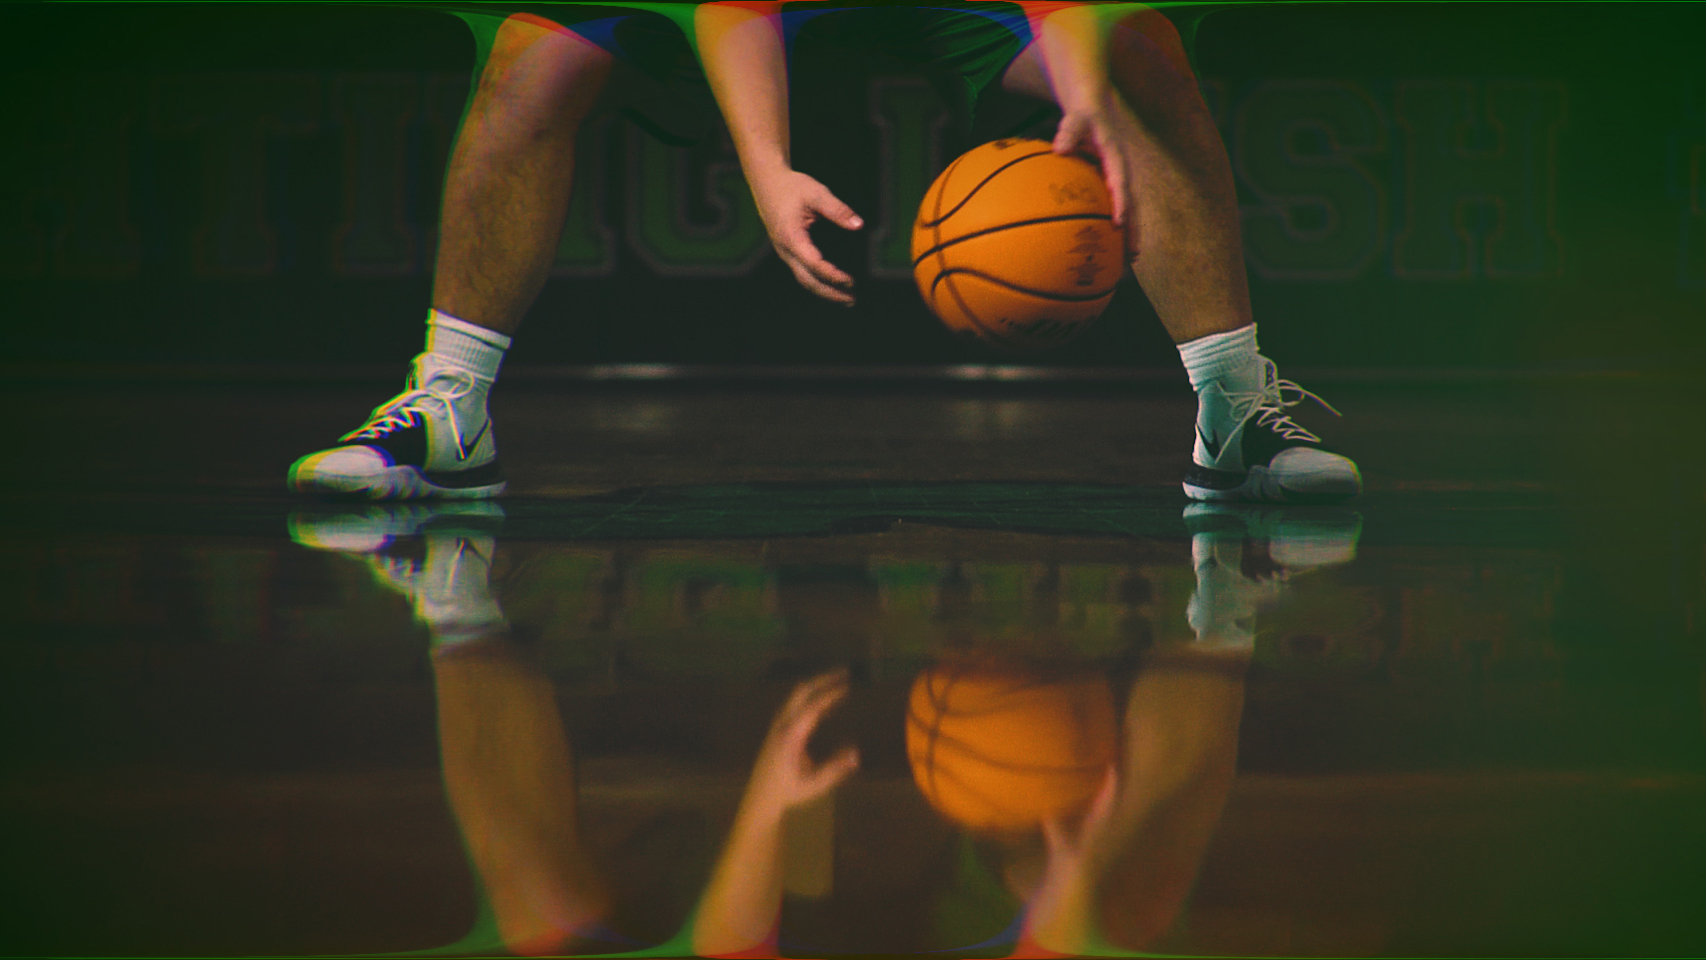
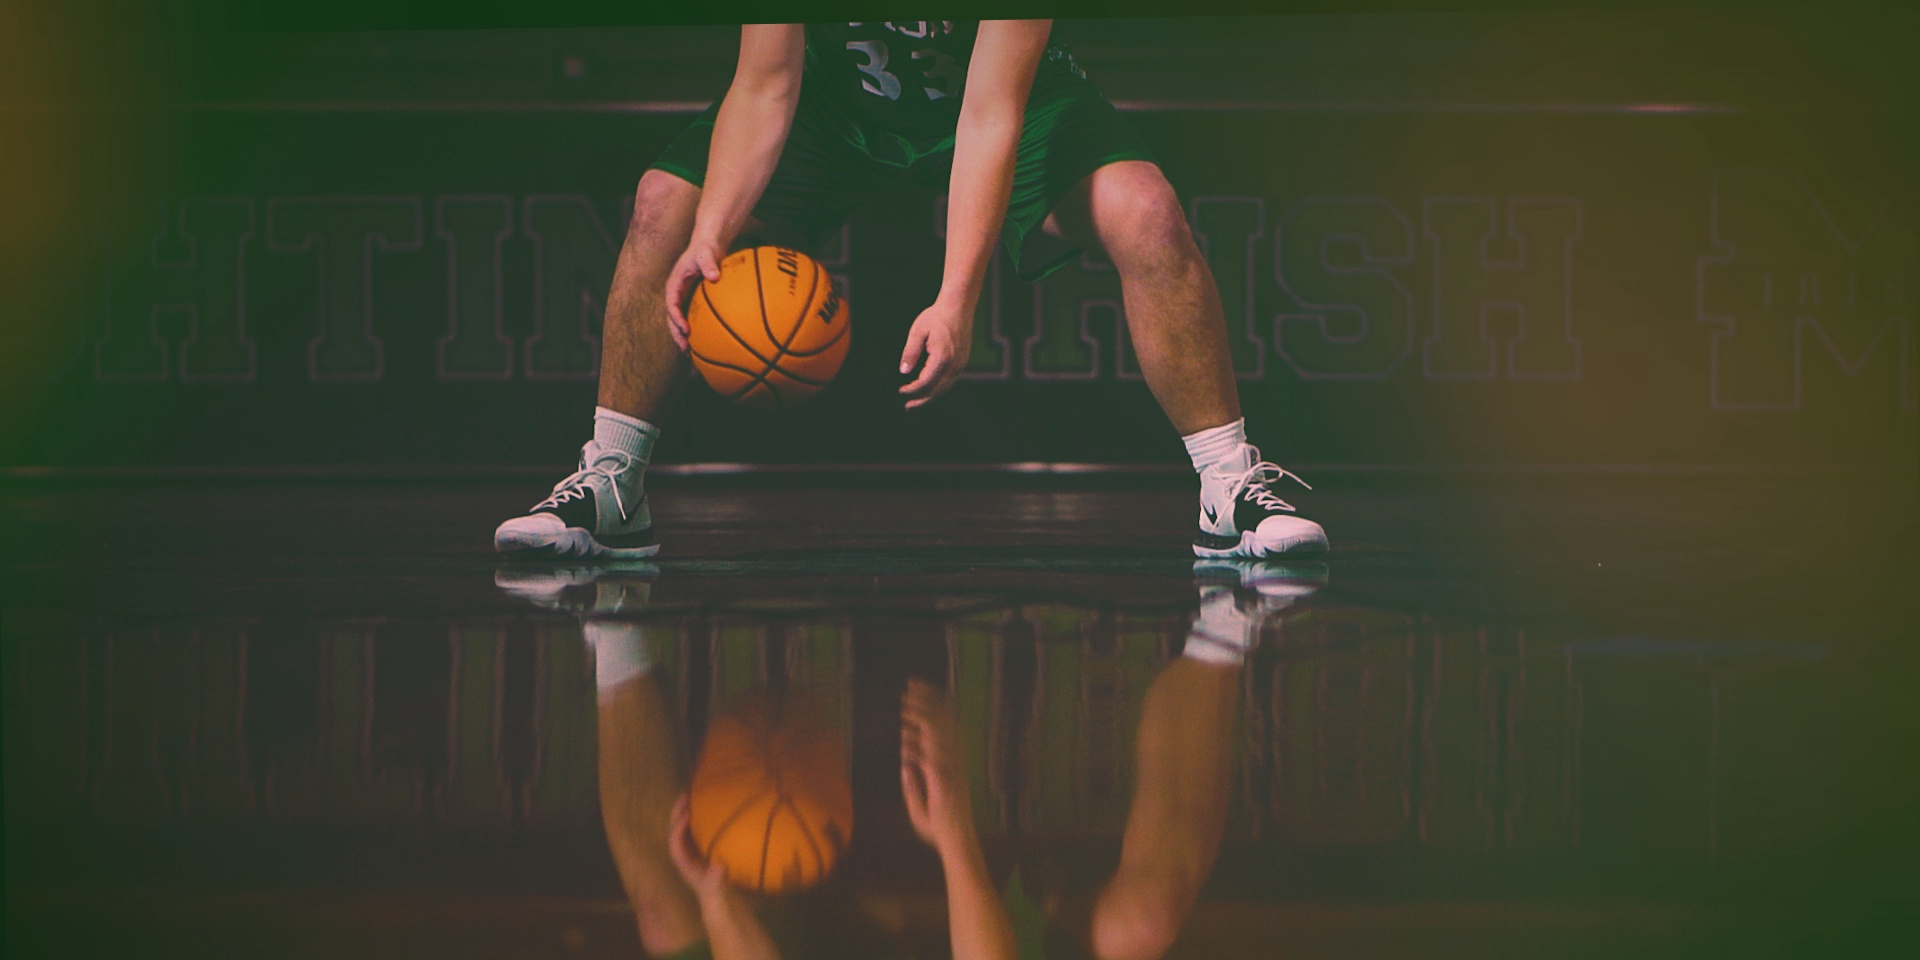
changed portfolio images

diff --git a/portfolio/index.html b/portfolio/index.html
@@ -32,12 +32,12 @@
             </div>
         </a>
         <a href="photo" class="purple" style="text-decoration: none;">
-            <div class="portfolio-card" style="background-image: url('../assets/screenshare.jpg');">
+            <div class="portfolio-card card-bottom" style="background-image: url('../assets/i35.jpg');">
                 <h1 class="card-title center mono">&#60;<text class="white">photo</text>&#62;</h1>
             </div>
         </a>
         <a href="video" class="green" style="text-decoration: none;">
-            <div class="portfolio-card" style="background-image: url('../assets/jungle.jpg');">
+            <div class="portfolio-card card-top" style="background-image: url('../assets/jungle3.jpg');">
                 <h1 class="card-title center mono">&#60;<text class="white">video</text>&#62;</h1>
             </div> <br>
         </a>

diff --git a/styles.css b/styles.css
@@ -269,6 +269,14 @@ footer img:hover {
     margin-bottom: 1.5vw;
 }
 
+.card-bottom {
+    background-position: 50% 95%;
+}
+
+.card-top {
+    background-position: 49% 19%;
+}
+
 .link-card {
     width: 100%;
     margin: auto;
@@ -431,7 +439,7 @@ iframe {
     }
 
     .link-card .card-title {
-        font-size: 5.5vw;
+        font-size: 5vw;
     }
 
     .portfolio-card {
@@ -482,5 +490,10 @@ iframe {
 
     .image-desktop {
         display: none;
+    }
+
+    .link-item img {
+        max-width: min(70%, 40px);
+        max-height: min(60%, 40px);
     }
 }
